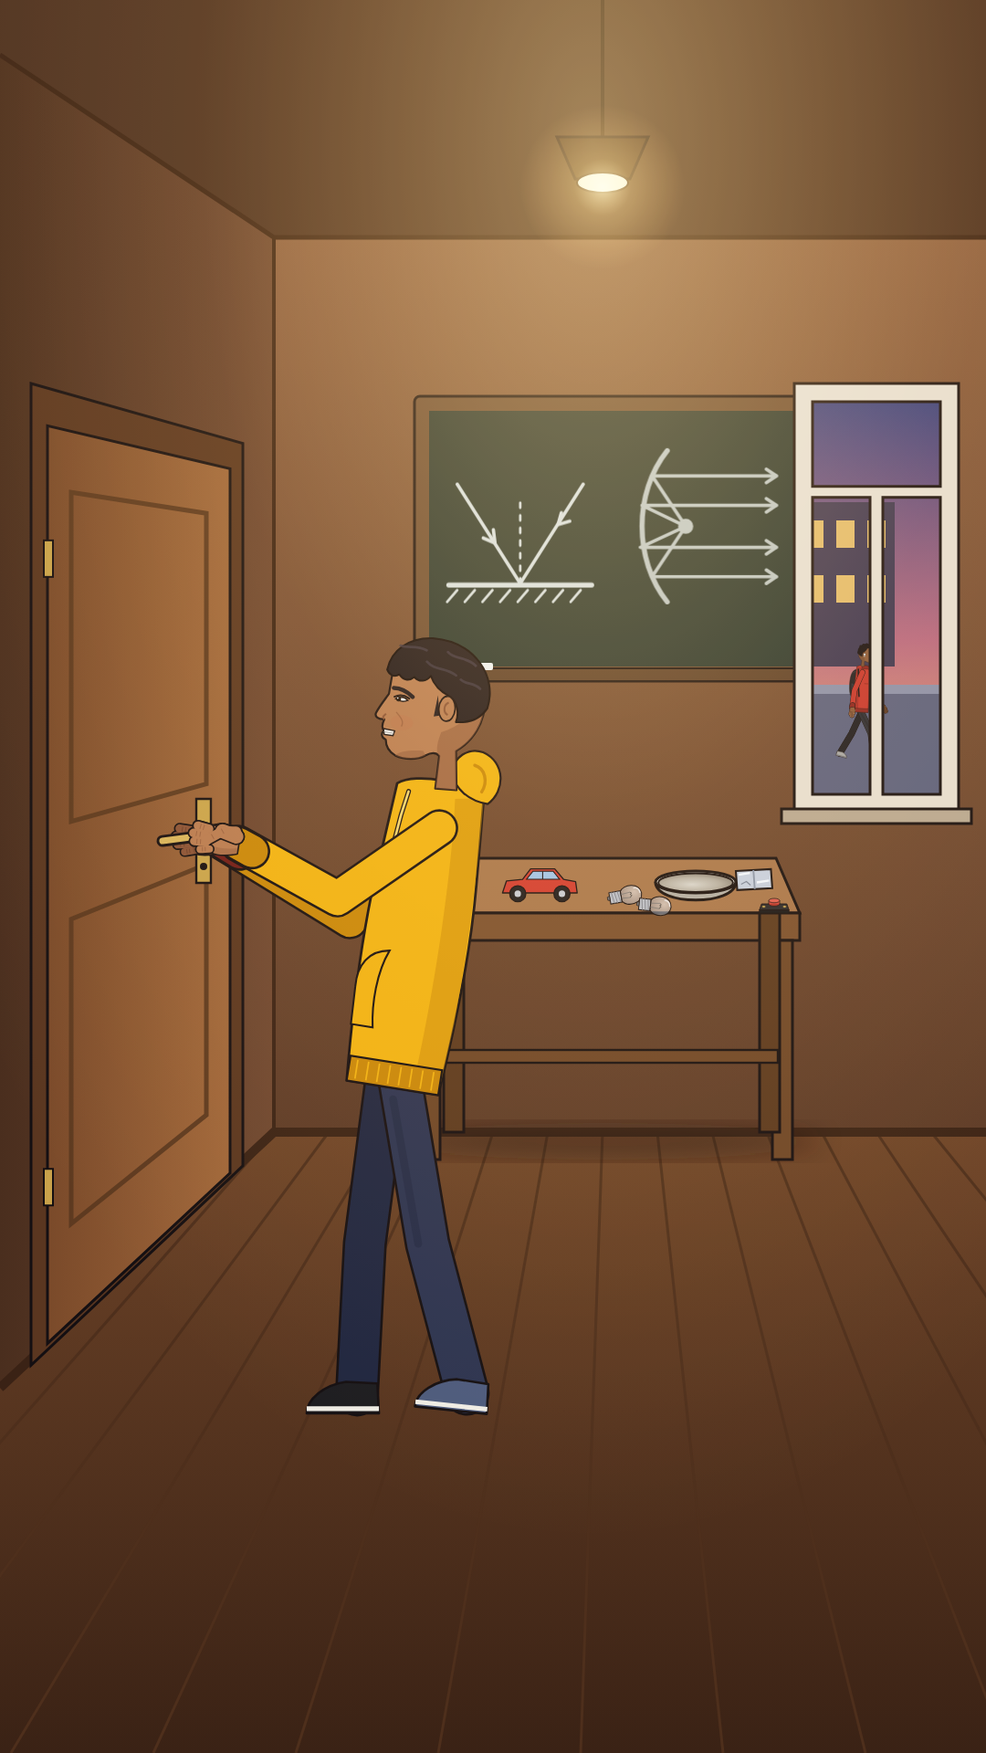
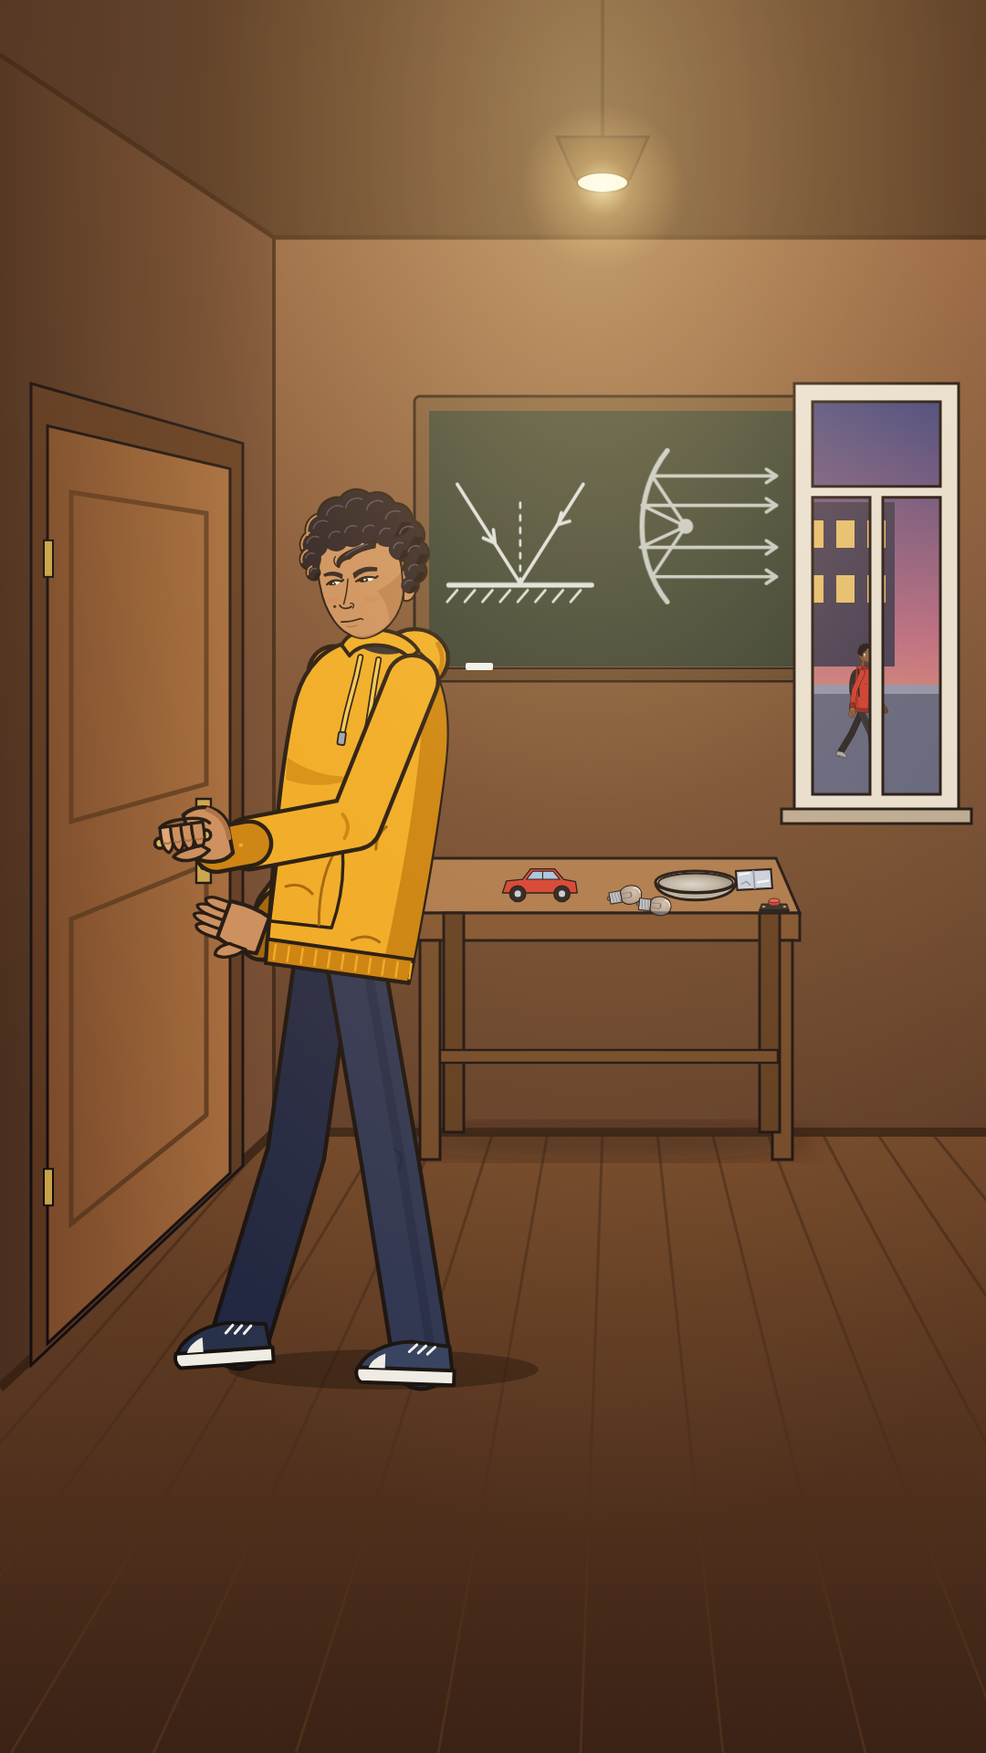
Flashlight Short: door shot redrawn with the v3 hoodie character
New reusable character module src/char/hero.tsx (bold-outline cel style from the
yellow-hoodie workbench illustration): HeroHead (face, eyes, pupils, lids, brows,
mouth, curls as separate groups), HeroTorso, HeroArm, HeroLeg, GripHand, FlatHand
and two-bone IK. The door shot uses HeroDoorPull: grip aligned to the lever, bent
elbow, rear foot planted, weight back, head turned to the handle. No pencil.

Claude-Session: https://claude.ai/code/session_01GXcKc4Y8qC3EF5pxQuadLi

Changed region(s): [[0.1528, 0.2812, 0.55, 0.8125]]

diff --git a/flashlight-short/src/char/hero.tsx b/flashlight-short/src/char/hero.tsx
@@ -1,0 +1,272 @@
+// The student, v3: drawn from the yellow-hoodie workbench illustration. Clean vector, bold dark outline, simple
+// two-tone cel shading. Average college build: about 7.2 heads tall. No pencil, nothing on the ears.
+// Reusable, editable layers:
+//   <HeroHead>  head facing LEFT in three-quarter (face, eyes, pupils, lids, brows, mouth, hair are separate groups)
+//   <HeroTorso> hoodie torso (hood, drawstrings, pocket, hem, folds) in a local frame: hip centre (0,0), facing LEFT
+//   <HeroArm>   hoodie sleeve shoulder -> elbow -> wrist, with a ribbed cuff (world coordinates)
+//   <HeroLeg>   jeans + canvas sneaker hip -> knee -> ankle (world coordinates)
+//   <GripHand>  a hand wrapped around a horizontal lever (lever passes between the fingers and the palm)
+//   <FlatHand>  an open hand pressed flat against a surface
+//   ik2()       two-bone IK so elbows and knees bend naturally to reach a target
+import React from 'react';
+
+export type Pt = [number, number];
+export const HC = {
+  ink: '#17110f',
+  skin: '#c98a5a', skinSh: '#a96a40', skinHi: '#dea172', blush: '#d06a50', lip: '#8e4a38', mole: '#3a2216',
+  hair: '#1a1620', hairSh: '#0c0a10', hairHi: '#4a4256', rim: '#e0954a',
+  hood: '#f0a722', hoodSh: '#c97d0c', hoodDeep: '#9e5f08', hoodHi: '#ffc94d', string: '#f6c450', aglet: '#9aa0a8', tee: '#26262c',
+  jeans: '#2b3350', jeansSh: '#1e2540', shoe: '#33405f', shoeSh: '#26304a', sole: '#efece4', lace: '#f4f1ea',
+  white: '#fbf7f0', iris: '#3a2416', pupil: '#120c0a',
+};
+const INK = HC.ink;
+
+// ---------------------------------------------------------------- geometry helpers
+export const rotP = (p: Pt, deg: number, c: Pt = [0, 0]): Pt => {
+  const r = (deg * Math.PI) / 180, x = p[0] - c[0], y = p[1] - c[1];
+  return [c[0] + x * Math.cos(r) - y * Math.sin(r), c[1] + x * Math.sin(r) + y * Math.cos(r)];
+};
+// two-bone IK: from root a toward target t with bone lengths l1, l2; `bend` = +1 / -1 picks the side the joint bends to
+export const ik2 = (a: Pt, t: Pt, l1: number, l2: number, bend: 1 | -1): Pt => {
+  const dx = t[0] - a[0], dy = t[1] - a[1], d = Math.min(Math.hypot(dx, dy), l1 + l2 - 0.01);
+  const cosA = (l1 * l1 + d * d - l2 * l2) / (2 * l1 * d), A = Math.acos(Math.max(-1, Math.min(1, cosA)));
+  const base = Math.atan2(dy, dx) + bend * A;
+  return [a[0] + Math.cos(base) * l1, a[1] + Math.sin(base) * l1];
+};
+const tube = (pts: Pt[]) => pts.map((p) => p.join(',')).join(' ');
+
+// ---------------------------------------------------------------- head (facing left, three-quarter). Units: eye line y=0, chin 138.
+export type HeroFace = {
+  look: Pt;                         // pupils, -1..1
+  lid: number;                      // upper lid drop 0..1
+  browIn: number; browOut: number;  // brow ends (y offsets, + is down)
+  mouth: 'press' | 'smile' | 'neutral' | 'open';
+};
+export const HERO_EFFORT: HeroFace = { look: [-0.7, 0.75], lid: 0.28, browIn: 6, browOut: -1, mouth: 'press' };
+export const HERO_SMILE: HeroFace = { look: [0.2, 0.5], lid: 0.3, browIn: 0, browOut: 0, mouth: 'smile' };
+
+// big, loose side-swept curls (cx, cy, r) - drawn as one outlined mass
+const CURLS: [number, number, number][] = [
+  [-96, -96, 32], [-74, -128, 38], [-36, -156, 44], [12, -168, 46], [60, -158, 44], [100, -132, 40], [128, -94, 36],
+  [140, -50, 30], [134, -8, 26], [118, 24, 20], [-108, -62, 24], [-104, -30, 16],
+  [-44, -104, 30], [-4, -112, 32], [38, -110, 30], [76, -100, 28], [104, -64, 26],
+];
+const Eye: React.FC<{ cx: number; hw: number; f: HeroFace; id: string }> = ({ cx, hw, f, id }) => {
+  const hh = 10.5, drop = f.lid * hh * 1.5;
+  const white = `M ${cx - hw} 2 Q ${cx - hw * 0.1} ${-hh * 1.5} ${cx + hw} -1 Q ${cx + hw * 0.1} ${hh} ${cx - hw} 2 Z`;
+  const px = cx + f.look[0] * hw * 0.42, py = 1 + f.look[1] * hh * 0.42;
+  return (
+    <g id={id}>
+      <clipPath id={`${id}-c`}><path d={white} /></clipPath>
+      <path id={`${id}-white`} d={white} fill={HC.white} />
+      <g id={`${id}-pupil`} clipPath={`url(#${id}-c)`}>
+        <circle cx={px} cy={py} r={hw * 0.58} fill={HC.iris} />
+        <circle cx={px} cy={py} r={hw * 0.36} fill={HC.pupil} />
+        <circle cx={px + hw * 0.18} cy={py - hw * 0.2} r={hw * 0.13} fill="#fff" />
+        <path d={`M ${cx - hw} 2 Q ${cx - hw * 0.1} ${-hh * 1.5 + drop} ${cx + hw} -1 L ${cx + hw} -40 L ${cx - hw} -40 Z`} fill={HC.skin} />
+      </g>
+      <g id={`${id}-lid`}>
+        <path d={`M ${cx - hw - 1} 2 Q ${cx - hw * 0.1} ${-hh * 1.55 + drop} ${cx + hw + 2} -2 l 5 -3`} fill="none" stroke={INK} strokeWidth={5} strokeLinecap="round" strokeLinejoin="round" />
+        <path d={`M ${cx - hw * 0.6} ${-hh * 1.4 - 6 + drop * 0.4} Q ${cx} ${-hh * 1.9 - 6} ${cx + hw * 0.8} ${-hh * 1.2 - 5}`} fill="none" stroke={HC.skinSh} strokeWidth={2.4} strokeLinecap="round" />
+      </g>
+    </g>
+  );
+};
+export const HeroHead: React.FC<{ f?: HeroFace }> = ({ f = HERO_EFFORT }) => (
+  <g>
+    {/* hair mass behind the head */}
+    <g id="hair-back">
+      {CURLS.map(([x, y, r], i) => <circle key={`o${i}`} cx={x} cy={y} r={r + 5} fill={INK} />)}
+    </g>
+    {/* ear */}
+    <g id="ear">
+      <path d="M 98 -10 C 122 -24 140 6 132 36 C 128 56 112 66 100 58 C 104 40 104 14 98 -10 Z" fill={HC.skin} stroke={INK} strokeWidth={4.5} strokeLinejoin="round" />
+      <path d="M 110 2 C 122 8 124 26 118 40" fill="none" stroke={HC.skinSh} strokeWidth={4} strokeLinecap="round" />
+    </g>
+    {/* face: soft jaw, the far cheek receding */}
+    <g id="face">
+      <path d="M -84 -74 C -94 -44 -97 -14 -93 8 C -91 36 -84 62 -70 88 C -56 114 -32 134 -8 138 C 18 140 46 128 66 108 C 86 88 98 64 102 40 L 104 -20 C 102 -56 88 -86 66 -98 L -60 -98 Z" fill={HC.skin} stroke={INK} strokeWidth={4.5} strokeLinejoin="round" />
+      {/* cel shadow: the turned-away side and under the jaw */}
+      <path d="M 40 30 C 58 52 66 82 60 112 C 78 96 92 72 100 44 L 102 -10 C 90 4 70 18 40 30 Z" fill={HC.skinSh} opacity={0.55} />
+      <path d="M -30 128 C -10 136 20 134 44 120 C 30 132 10 140 -8 138 C -16 136 -24 132 -30 128 Z" fill={HC.skinSh} opacity={0.6} />
+      <ellipse cx={-66} cy={42} rx={14} ry={7} fill={HC.blush} opacity={0.22} />
+      <ellipse cx={26} cy={48} rx={18} ry={8} fill={HC.blush} opacity={0.18} />
+      <circle id="mole" cx={-64} cy={56} r={3.6} fill={HC.mole} />
+    </g>
+    <g id="nose">
+      <path d="M -26 -6 C -30 18 -36 38 -42 52" fill="none" stroke={INK} strokeWidth={3.2} strokeLinecap="round" />
+      <path d="M -52 54 C -48 64 -34 66 -24 60" fill="none" stroke={INK} strokeWidth={3.6} strokeLinecap="round" />
+      <path d="M -26 52 C -18 52 -16 60 -22 64" fill="none" stroke={INK} strokeWidth={3} strokeLinecap="round" />
+    </g>
+    <Eye cx={-60} hw={16} f={f} id="eye-far" />
+    <Eye cx={16} hw={22} f={f} id="eye-near" />
+    <g id="brows">
+      <path id="brow-far" d={`M -38 ${-24 + f.browIn} Q -58 ${-34 + (f.browIn + f.browOut) / 2} -82 ${-22 + f.browOut} L -80 ${-17 + f.browOut} Q -58 ${-26 + (f.browIn + f.browOut) / 2} -40 ${-14 + f.browIn} Z`} fill={HC.hair} stroke={INK} strokeWidth={2} strokeLinejoin="round" />
+      <path id="brow-near" d={`M -12 ${-24 + f.browIn} Q 14 ${-38 + (f.browIn + f.browOut) / 2} 46 ${-24 + f.browOut} L 44 ${-17 + f.browOut} Q 14 ${-28 + (f.browIn + f.browOut) / 2} -10 ${-12 + f.browIn} Z`} fill={HC.hair} stroke={INK} strokeWidth={2} strokeLinejoin="round" />
+    </g>
+    <g id="mouth">
+      {f.mouth === 'press' && <><path d="M -52 94 Q -30 97 -6 91" fill="none" stroke={INK} strokeWidth={3.6} strokeLinecap="round" /><path d="M -6 91 q 4 0 6 3" fill="none" stroke={INK} strokeWidth={2.6} strokeLinecap="round" /><path d="M -40 106 Q -28 110 -16 106" fill="none" stroke={HC.skinSh} strokeWidth={3} strokeLinecap="round" /></>}
+      {f.mouth === 'smile' && <><path d="M -54 90 Q -28 102 0 86" fill="none" stroke={INK} strokeWidth={3.6} strokeLinecap="round" /><path d="M -38 108 Q -26 112 -14 108" fill="none" stroke={HC.skinSh} strokeWidth={3} strokeLinecap="round" /></>}
+      {f.mouth === 'neutral' && <path d="M -50 94 Q -28 98 -4 92" fill="none" stroke={INK} strokeWidth={3.4} strokeLinecap="round" />}
+      {f.mouth === 'open' && <path d="M -50 90 Q -28 92 -4 88 Q -24 112 -50 90 Z" fill="#4a1a1a" stroke={INK} strokeWidth={3} />}
+    </g>
+    {/* hair: one outlined mass of loose curls, side-swept over the forehead */}
+    <g id="hair">
+      {CURLS.map(([x, y, r], i) => <circle key={`f${i}`} cx={x} cy={y} r={r} fill={HC.hair} />)}
+      {/* cel shadow on the lower-back curls */}
+      {CURLS.filter(([x, y]) => x > 90 || y > -40).map(([x, y, r], i) => <path key={`s${i}`} d={`M ${x - r * 0.2} ${y + r * 0.95} A ${r} ${r} 0 0 0 ${x + r * 0.95} ${y + r * 0.2} L ${x + r * 0.4} ${y + r * 0.1} Z`} fill={HC.hairSh} />)}
+      {/* curl highlights */}
+      {CURLS.map(([x, y, r], i) => <path key={`h${i}`} d={`M ${x - r * 0.55} ${y - r * 0.15} A ${r * 0.6} ${r * 0.6} 0 0 1 ${x + r * 0.35} ${y - r * 0.5}`} fill="none" stroke={HC.hairHi} strokeWidth={3.2} strokeLinecap="round" />)}
+      {/* warm rim on the curls nearest the lamp/bulb */}
+      {CURLS.filter(([x]) => x < -60).map(([x, y, r], i) => <path key={`r${i}`} d={`M ${x - r * 0.95} ${y + r * 0.2} A ${r} ${r} 0 0 1 ${x - r * 0.3} ${y - r * 0.92}`} fill="none" stroke={HC.rim} strokeWidth={4.5} strokeLinecap="round" opacity={0.85} />)}
+      {/* side-swept fringe curls falling onto the forehead */}
+      <path d="M 50 -92 C 24 -80 -6 -78 -30 -66 C -46 -58 -52 -44 -44 -36 C -40 -48 -28 -54 -16 -54 C -4 -66 24 -72 46 -74 Z" fill={HC.hair} stroke={INK} strokeWidth={3.6} strokeLinejoin="round" />
+      <path d="M -44 -36 C -54 -40 -58 -54 -50 -62" fill="none" stroke={INK} strokeWidth={3} strokeLinecap="round" />
+      <path d="M 30 -84 C 10 -78 -12 -72 -26 -62" fill="none" stroke={HC.hairHi} strokeWidth={3} strokeLinecap="round" />
+    </g>
+  </g>
+);
+
+// ---------------------------------------------------------------- torso (local: hip centre (0,0), facing LEFT; y up is negative)
+export const TORSO = { shoulderFar: [-50, -300] as Pt, shoulderNear: [36, -302] as Pt, neck: [-6, -334] as Pt, hipFar: [-18, 6] as Pt, hipNear: [16, 8] as Pt };
+export const HeroTorso: React.FC = () => (
+  <g>
+    {/* hood bunched behind the neck */}
+    <path id="hood-back" d="M 0 -338 C 14 -364 56 -368 70 -338 C 76 -316 62 -298 42 -302 C 28 -312 14 -324 0 -338 Z" fill={HC.hood} stroke={INK} strokeWidth={4.5} strokeLinejoin="round" />
+    <path d="M 58 -346 C 68 -334 68 -316 58 -306" fill="none" stroke={HC.hoodSh} strokeWidth={5} strokeLinecap="round" />
+    {/* body: loose hoodie */}
+    <path id="hoodie-body" d="M -34 -336 C -62 -328 -84 -302 -88 -262 C -94 -200 -90 -120 -84 -40 L -80 26 L 78 26 C 82 -40 86 -140 84 -220 C 82 -282 64 -322 34 -336 Z" fill={HC.hood} stroke={INK} strokeWidth={4.5} strokeLinejoin="round" />
+    {/* cel shadow along the back and under the chest */}
+    <path d="M 34 -336 C 64 -322 82 -282 84 -220 C 86 -140 82 -40 78 26 L 46 26 C 54 -60 58 -160 54 -240 C 52 -290 44 -320 34 -336 Z" fill={HC.hoodSh} />
+    <path d="M -88 -200 C -60 -186 -30 -184 -4 -192 C -30 -176 -60 -170 -86 -176 Z" fill={HC.hoodSh} opacity={0.7} />
+    {/* kangaroo pocket */}
+    <path id="pocket" d="M -84 -112 L -16 -116 C -8 -86 -8 -52 -14 -22 L -82 -20 Z" fill={HC.hood} stroke={INK} strokeWidth={3.4} strokeLinejoin="round" />
+    <path d="M -16 -116 C -30 -96 -34 -60 -28 -22" fill="none" stroke={HC.hoodDeep} strokeWidth={3} />
+    {/* relaxed folds */}
+    <path d="M -70 -60 q 16 -8 30 4 M 30 -140 q -10 10 -8 26 M 10 -12 q 14 -10 30 -2" fill="none" stroke={HC.hoodDeep} strokeWidth={3} strokeLinecap="round" />
+    {/* ribbed hem */}
+    <path d="M -82 0 L 80 0 L 78 26 L -80 26 Z" fill={HC.hoodSh} stroke={INK} strokeWidth={4} strokeLinejoin="round" />
+    {Array.from({ length: 11 }, (_, i) => <path key={i} d={`M ${-72 + i * 15} 4 L ${-72 + i * 15} 22`} stroke={HC.hood} strokeWidth={2.4} />)}
+    {/* neck opening: dark tee, then the hood's front edge */}
+    <path d="M -30 -334 C -18 -346 12 -346 24 -334 C 10 -324 -16 -324 -30 -334 Z" fill={HC.tee} />
+    <path id="hood-front" d="M -46 -330 C -40 -356 16 -362 38 -336 L 30 -326 C 12 -340 -24 -340 -36 -320 Z" fill={HC.hood} stroke={INK} strokeWidth={4} strokeLinejoin="round" />
+    {/* drawstrings with metal tips */}
+    <g id="drawstrings">
+      {[[-24, -320, -32, -236], [-4, -320, -6, -230]].map(([x0, y0, x1, y1], i) => <g key={i}>
+        <path d={`M ${x0} ${y0} C ${x0 - 2} ${(y0 + y1) / 2} ${x1 + 2} ${(y0 + y1) / 2} ${x1} ${y1}`} fill="none" stroke={INK} strokeWidth={7} strokeLinecap="round" />
+        <path d={`M ${x0} ${y0} C ${x0 - 2} ${(y0 + y1) / 2} ${x1 + 2} ${(y0 + y1) / 2} ${x1} ${y1}`} fill="none" stroke={HC.string} strokeWidth={3.6} strokeLinecap="round" />
+        <rect x={x1 - 4} y={y1} width={8} height={14} rx={2} fill={HC.aglet} stroke={INK} strokeWidth={1.8} />
+      </g>)}
+    </g>
+  </g>
+);
+
+// ---------------------------------------------------------------- limbs (world coordinates)
+const Tube: React.FC<{ pts: Pt[]; w: number; fill: string; ow?: number }> = ({ pts, w, fill, ow = 4.5 }) => (
+  <g fill="none" strokeLinecap="round" strokeLinejoin="round">
+    <polyline points={tube(pts)} stroke={INK} strokeWidth={w + ow * 2} />
+    <polyline points={tube(pts)} stroke={fill} strokeWidth={w} />
+  </g>
+);
+const lerp = (a: Pt, b: Pt, k: number): Pt => [a[0] + (b[0] - a[0]) * k, a[1] + (b[1] - a[1]) * k];
+export const HeroArm: React.FC<{ sh: Pt; el: Pt; wr: Pt; far?: boolean; id: string }> = ({ sh, el, wr, far, id }) => {
+  const c0 = lerp(el, wr, 0.78), c1 = lerp(el, wr, 1.02);
+  const fill = far ? HC.hoodSh : HC.hood;
+  return (
+    <g id={id}>
+      <Tube pts={[sh, el, c0]} w={52} fill={fill} />
+      {/* soft bunching at the elbow, cel shadow down the underside */}
+      <path d={`M ${el[0] - 14} ${el[1] - 10} q 10 12 2 26`} fill="none" stroke={far ? HC.hoodDeep : HC.hoodSh} strokeWidth={4} strokeLinecap="round" />
+      <Tube pts={[c0, c1]} w={44} fill={far ? HC.hoodDeep : HC.hoodSh} />
+      {[0.25, 0.55, 0.85].map((k) => { const p = lerp(c0, c1, k); return <circle key={k} cx={p[0]} cy={p[1]} r={2.2} fill={far ? HC.hoodSh : HC.hood} />; })}
+    </g>
+  );
+};
+export const HeroLeg: React.FC<{ hip: Pt; kn: Pt; an: Pt; far?: boolean; toe?: number; id: string }> = ({ hip, kn, an, far, toe = 0, id }) => (
+  <g id={id}>
+    <Tube pts={[hip, kn, an]} w={58} fill={far ? HC.jeansSh : HC.jeans} />
+    <polyline points={tube([lerp(hip, kn, 0.1), kn, lerp(kn, an, 0.9)])} fill="none" stroke={HC.jeansSh} strokeWidth={10} strokeLinecap="round" strokeLinejoin="round" opacity={far ? 0 : 0.55} transform="translate(12 0)" />
+    {/* seam and knee crease */}
+    <path d={`M ${kn[0] + 6} ${kn[1] - 10} q 12 8 4 22`} fill="none" stroke={HC.jeansSh} strokeWidth={3} strokeLinecap="round" />
+    {/* canvas sneaker, toe pointing left */}
+    <g transform={`translate(${an[0]} ${an[1]}) rotate(${toe})`}>
+      <path d="M 30 -16 L -12 -20 C -42 -18 -66 -4 -70 14 L 34 14 Z" fill={far ? HC.shoeSh : HC.shoe} stroke={INK} strokeWidth={4} strokeLinejoin="round" />
+      <path d="M -70 10 L 36 10 L 36 26 L -66 26 C -72 22 -72 14 -70 10 Z" fill={HC.sole} stroke={INK} strokeWidth={4} strokeLinejoin="round" />
+      <path d="M -40 -6 C -50 -2 -56 4 -58 10 L -40 10 Z" fill={HC.sole} />
+      {[0, 1, 2].map((i) => <path key={i} d={`M ${-6 + i * 10} ${-17 + i} l -8 8`} stroke={HC.lace} strokeWidth={3} strokeLinecap="round" />)}
+    </g>
+  </g>
+);
+
+// a hand wrapped around a horizontal lever: origin = grip centre on the lever axis, wrist toward +x (to the right)
+export const GRIP_WRIST: Pt = [40, 12];
+export const GripHand: React.FC<{ lever?: [number, number]; leverColor?: string }> = ({ lever = [-30, 34], leverColor = '#d8b35a' }) => (
+  <g id="grip-hand">
+    {/* the wrist and back of the hand, behind the lever */}
+    <path id="grip-back" d="M 4 -24 C 20 -34 40 -30 48 -12 L 50 22 C 40 32 22 30 10 22 Z" fill={HC.skin} stroke={INK} strokeWidth={4} strokeLinejoin="round" />
+    <path d="M 30 -26 C 42 -20 48 -8 48 6" fill="none" stroke={HC.skinSh} strokeWidth={5} strokeLinecap="round" />
+    {/* the lever */}
+    <g id="lever">
+      <path d={`M ${lever[1]} 0 L ${lever[0]} 2`} stroke={INK} strokeWidth={14} strokeLinecap="round" />
+      <path d={`M ${lever[1]} 0 L ${lever[0]} 2`} stroke={leverColor} strokeWidth={7} strokeLinecap="round" />
+    </g>
+    {/* four fingers curling over the top of the lever and down its front */}
+    <g id="grip-fingers">
+      {[-16, -5, 6, 17].map((x, i) => (
+        <g key={i}>
+          <path d={`M ${x - 6} -14 C ${x - 7} 0 ${x - 6} 10 ${x} 13 C ${x + 6} 10 ${x + 7} 0 ${x + 6} -14 Z`} fill={i === 0 ? HC.skinHi : HC.skin} stroke={INK} strokeWidth={3.2} strokeLinejoin="round" />
+          <path d={`M ${x - 4} 2 q 4 3 8 0`} fill="none" stroke={HC.skinSh} strokeWidth={2} strokeLinecap="round" />
+        </g>
+      ))}
+      {/* knuckles on top */}
+      <path d="M -22 -14 C -14 -22 22 -22 30 -12" fill="none" stroke={INK} strokeWidth={3.4} strokeLinecap="round" />
+    </g>
+    {/* thumb wraps under the lever */}
+    <path id="grip-thumb" d="M 26 16 C 14 26 -4 26 -12 18 C -8 13 4 12 18 10 Z" fill={HC.skin} stroke={INK} strokeWidth={3.4} strokeLinejoin="round" />
+  </g>
+);
+
+// an open hand pressed flat on a surface: origin = wrist, fingers toward -y (up)
+export const FlatHand: React.FC = () => (
+  <g id="flat-hand">
+    {[-14, -4, 6, 15].map((x, i) => <path key={i} d={`M ${x - 5} -40 C ${x - 6} -60 ${x - 5} ${-76 + Math.abs(i - 1.5) * 6} ${x} ${-78 + Math.abs(i - 1.5) * 6} C ${x + 5} ${-76 + Math.abs(i - 1.5) * 6} ${x + 6} -60 ${x + 5} -40 Z`} fill={HC.skin} stroke={INK} strokeWidth={3.2} strokeLinejoin="round" />)}
+    <path d="M -20 0 C -24 -16 -22 -34 -18 -44 L 22 -44 C 24 -30 24 -14 20 0 Z" fill={HC.skin} stroke={INK} strokeWidth={4} strokeLinejoin="round" />
+    <path d="M -20 -12 C -32 -20 -38 -32 -36 -40 C -30 -42 -24 -36 -20 -30 Z" fill={HC.skin} stroke={INK} strokeWidth={3.2} strokeLinejoin="round" />
+  </g>
+);
+
+// ---------------------------------------------------------------- the door pull (world coordinates)
+// handle: the lever's pivot on the door; leverTip: its free end. Feet, hips and lean are set here.
+export const HeroDoorPull: React.FC<{ handle: Pt; leverTip: Pt; brace: Pt }> = ({ handle, leverTip, brace }) => {
+  const hip: Pt = [374, 1040], lean = 8;                    // weight back: the upper body tilts away from the door
+  const W = (p: Pt): Pt => { const q = rotP(p, lean); return [hip[0] + q[0], hip[1] + q[1]]; };
+  const shN = W(TORSO.shoulderNear), shF = W(TORSO.shoulderFar), neck = W(TORSO.neck);
+  // the grip sits on the middle of the lever; the wrist follows from the hand's own geometry
+  const grip = lerp(handle, leverTip, 0.5);
+  const wrN: Pt = [grip[0] + GRIP_WRIST[0], grip[1] + GRIP_WRIST[1]];
+  const elN = ik2(shN, wrN, 168, 152, -1);                  // elbow bends down and out
+  const wrF: Pt = [brace[0] + 26, brace[1] + 30];
+  const elF = ik2(shF, wrF, 168, 152, -1);
+  // legs: front (far) foot toward the door, rear (near) foot planted behind; knees bend forward
+  const hipF = W(TORSO.hipFar), hipN = W(TORSO.hipNear);
+  const anF: Pt = [262, 1468], anN: Pt = [462, 1490];
+  const knF = ik2(hipF, anF, 222, 214, -1), knN = ik2(hipN, anN, 222, 214, -1);
+  const leverAng = (Math.atan2(leverTip[1] - handle[1], leverTip[0] - handle[0]) * 180) / Math.PI + 180;
+  const lenL = Math.hypot(leverTip[0] - handle[0], leverTip[1] - handle[1]) / 2;
+  return (
+    <g id="hero-door-pull">
+      <ellipse cx={420} cy={1500} rx={170} ry={22} fill="#1a0f09" opacity={0.4} filter="url(#r-soft)" />
+      {/* far arm braces flat on the door frame */}
+      <HeroArm id="arm-far" sh={shF} el={elF} wr={wrF} far />
+      <g transform={`translate(${wrF[0]} ${wrF[1]}) rotate(-70) scale(1.05)`}><FlatHand /></g>
+      <HeroLeg id="leg-far" hip={hipF} kn={knF} an={anF} far toe={-4} />
+      <HeroLeg id="leg-near" hip={hipN} kn={knN} an={anN} toe={2} />
+      <g id="torso" transform={`translate(${hip[0]} ${hip[1]}) rotate(${lean})`}><HeroTorso /></g>
+      {/* head: turned just enough to read the face, looking down at the handle */}
+      <g id="head" transform={`translate(${neck[0] - 8} ${neck[1] + 10}) rotate(${-6}) scale(0.46) translate(-10 -182)`}><HeroHead f={HERO_EFFORT} /></g>
+      {/* near arm and the gripping hand, aligned with the lever */}
+      <HeroArm id="arm-near" sh={shN} el={elN} wr={wrN} />
+      <g transform={`translate(${grip[0]} ${grip[1]}) rotate(${leverAng}) scale(1.05)`}><GripHand lever={[-lenL - 2, lenL + 2]} /></g>
+    </g>
+  );
+};

diff --git a/flashlight-short/src/storyboard.tsx b/flashlight-short/src/storyboard.tsx
@@ -5,6 +5,7 @@
 import React from 'react';
 import { AbsoluteFill, Img, staticFile, useCurrentFrame } from 'remotion';
 import { step as stepK } from './kit';
+import { HeroDoorPull } from './char/hero';
 import {
   INK, W, H, P, Svg, Person, STU, FRD, HANDS, Hand, PlaceHand, HandSpec, LEGS_STAND, toHand, unlean, anchorHand,
   Tag, MiniBulb, Socket, HeadP, Pack, PushSwitch, Wire, Candle, BowlTop, ToyCar, FoilSheet, WindowFrame, ChalkSketches, Pose,
@@ -75,7 +76,7 @@ const onLeftWall = (x: number, f: number) => wallBot(x) - f * (wallBot(x) - wall
 const DOOR = { x0: 52, x1: 252, top: 0.73 };
 const HANDLE: P = [222, onLeftWall(222, 0.36)];
 
-const Room: React.FC<{ lit: boolean; pull?: number; fx?: number; fph?: number }> = ({ lit, pull = 0.45, fx = 0, fph = 0.3 }) => {
+const Room: React.FC<{ lit: boolean; pull?: number; fx?: number; fph?: number; hero?: boolean }> = ({ lit, pull = 0.45, fx = 0, fph = 0.3, hero = true }) => {
   const dq = (x: number, f: number): P => [x, onLeftWall(x, f)];
   const door = [dq(DOOR.x0, 0), dq(DOOR.x0, DOOR.top), dq(DOOR.x1, DOOR.top), dq(DOOR.x1, 0)];
   const frame = [dq(DOOR.x0 - 18, -0.005), dq(DOOR.x0 - 18, DOOR.top + 0.03), dq(DOOR.x1 + 14, DOOR.top + 0.03), dq(DOOR.x1 + 14, -0.005)];
@@ -171,7 +172,8 @@ const Room: React.FC<{ lit: boolean; pull?: number; fx?: number; fph?: number }>
         <g transform="translate(848 990) scale(0.3)"><PushSwitch /></g>
       </g>
 
-      {/* the student pulling the stuck door */}
+      {/* the student pulling the stuck door (v3 character: src/char/hero.tsx) */}
+      {hero ? <HeroDoorPull handle={HANDLE} leverTip={[HANDLE[0] - 44, HANDLE[1] + 6]} brace={[262, onLeftWall(262, 0.27)]} /> : <>
       <Place x={S.x} y={S.y} s={S.s} flip id="student">
         <Person who="stu" pal={STU} pose={{ ...pose, near: { ...pose.near, behind: undefined } }} />
       </Place>
@@ -186,6 +188,8 @@ const Room: React.FC<{ lit: boolean; pull?: number; fx?: number; fph?: number }>
           <PlaceHand at={wrN} toward={unlean(grip, lean)} s={0.64}><Hand h={HANDS.fist} pal={STU} only={['f0', 'f1', 'f2', 'f3', 't']} /></PlaceHand>
         </g>
       </Place>
+
+      </>}
 
       {/* light */}
       {lit
